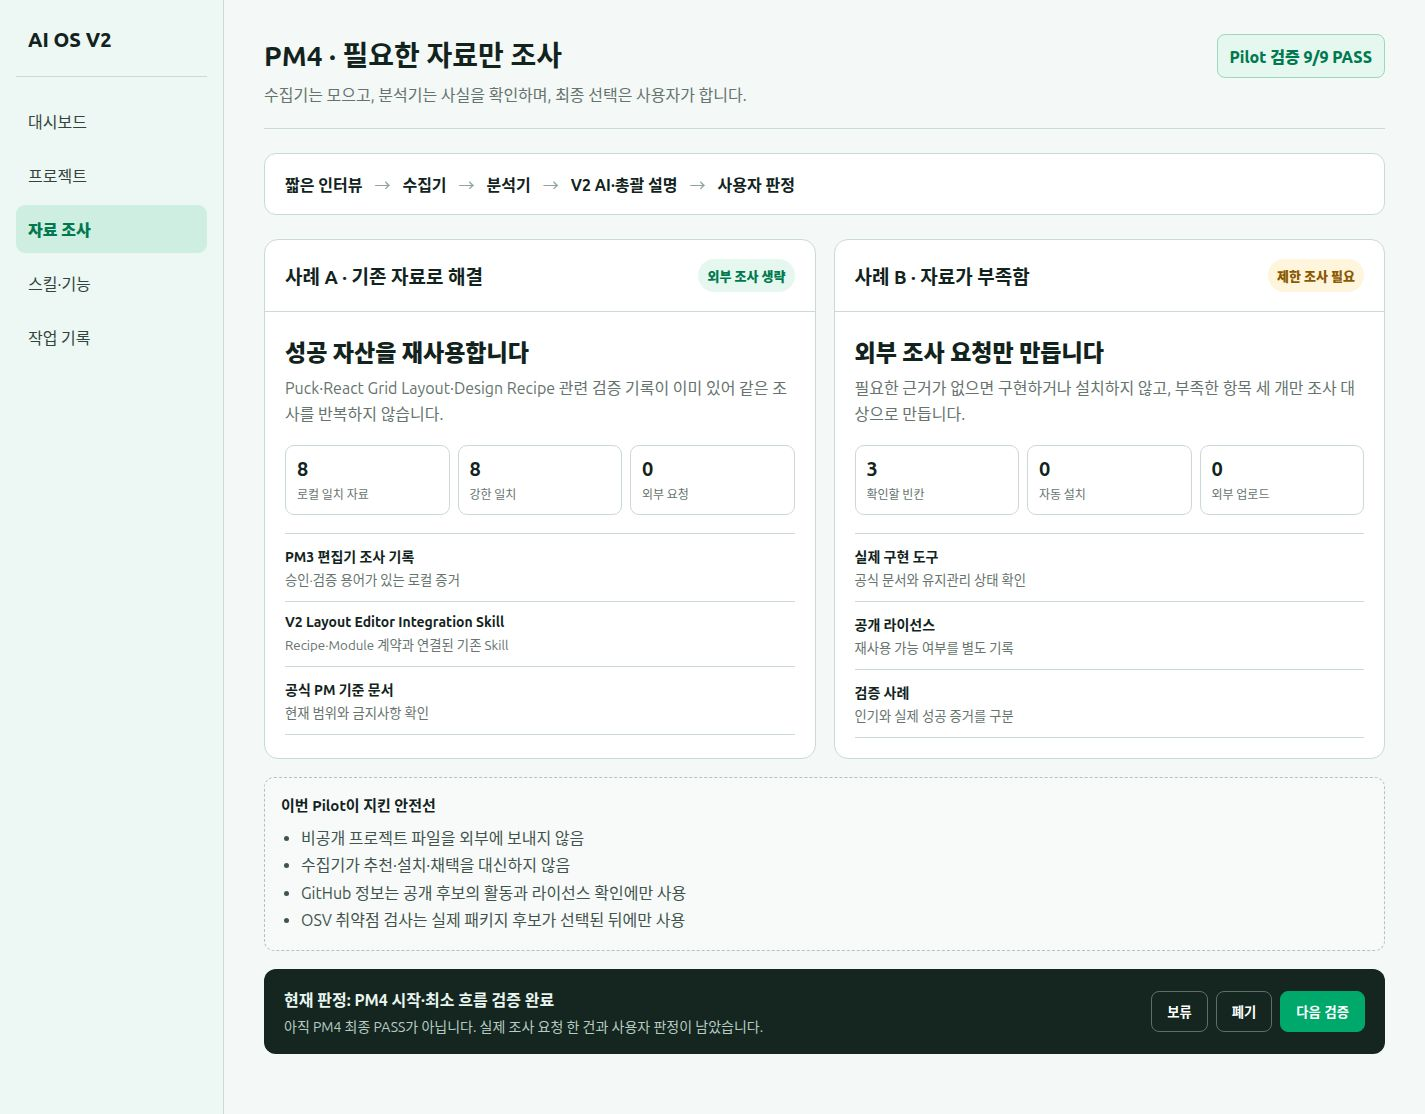
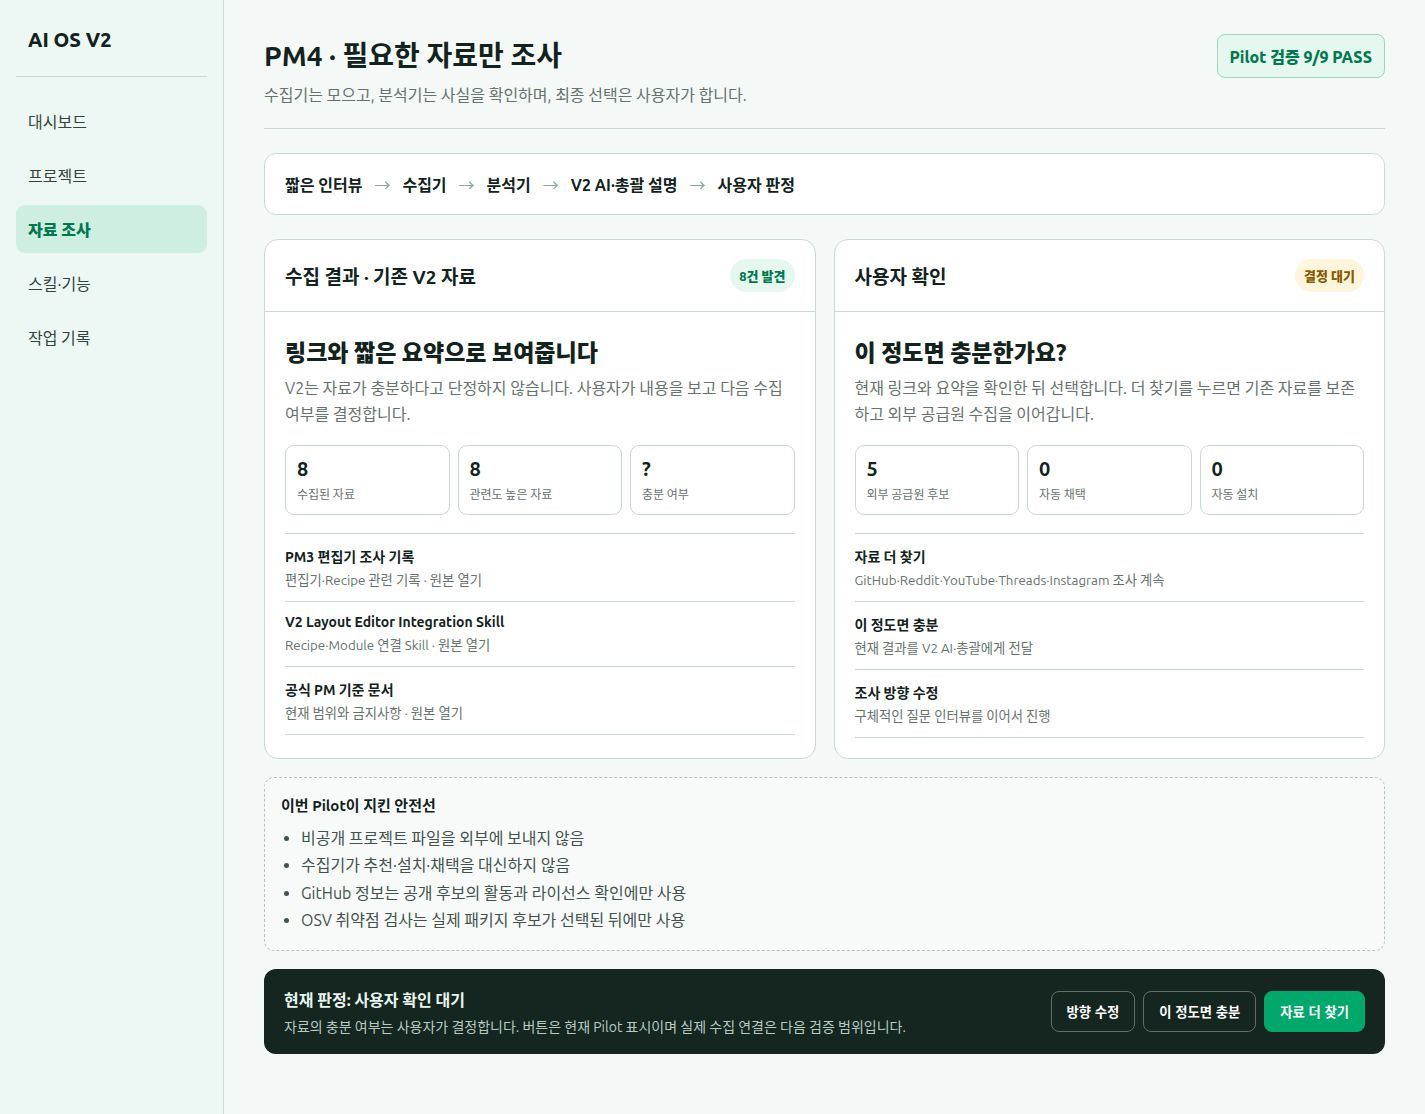
fix: make PM4 collection sufficiency user-decided

diff --git a/pm4-review.html b/pm4-review.html
@@ -15,11 +15,11 @@
     <section class="header"><div><h1>PM4 · 필요한 자료만 조사</h1><p>수집기는 모으고, 분석기는 사실을 확인하며, 최종 선택은 사용자가 합니다.</p></div><div class="status">Pilot 검증 9/9 PASS</div></section>
     <section class="flow" aria-label="조사 흐름"><span class="step">짧은 인터뷰</span><span class="arrow">→</span><span class="step">수집기</span><span class="arrow">→</span><span class="step">분석기</span><span class="arrow">→</span><span class="step">V2 AI·총괄 설명</span><span class="arrow">→</span><span class="step">사용자 판정</span></section>
     <section class="grid">
-      <article class="case"><header><h2>사례 A · 기존 자료로 해결</h2><span class="badge good">외부 조사 생략</span></header><div class="body"><div class="decision">성공 자산을 재사용합니다</div><p class="desc">Puck·React Grid Layout·Design Recipe 관련 검증 기록이 이미 있어 같은 조사를 반복하지 않습니다.</p><div class="metric"><div><b>8</b><span>로컬 일치 자료</span></div><div><b>8</b><span>강한 일치</span></div><div><b>0</b><span>외부 요청</span></div></div><div class="list"><div class="row"><b>PM3 편집기 조사 기록</b><small>승인·검증 용어가 있는 로컬 증거</small></div><div class="row"><b>V2 Layout Editor Integration Skill</b><small>Recipe·Module 계약과 연결된 기존 Skill</small></div><div class="row"><b>공식 PM 기준 문서</b><small>현재 범위와 금지사항 확인</small></div></div></div></article>
-      <article class="case"><header><h2>사례 B · 자료가 부족함</h2><span class="badge warn">제한 조사 필요</span></header><div class="body"><div class="decision">외부 조사 요청만 만듭니다</div><p class="desc">필요한 근거가 없으면 구현하거나 설치하지 않고, 부족한 항목 세 개만 조사 대상으로 만듭니다.</p><div class="metric"><div><b>3</b><span>확인할 빈칸</span></div><div><b>0</b><span>자동 설치</span></div><div><b>0</b><span>외부 업로드</span></div></div><div class="list"><div class="row"><b>실제 구현 도구</b><small>공식 문서와 유지관리 상태 확인</small></div><div class="row"><b>공개 라이선스</b><small>재사용 가능 여부를 별도 기록</small></div><div class="row"><b>검증 사례</b><small>인기와 실제 성공 증거를 구분</small></div></div></div></article>
+      <article class="case"><header><h2>수집 결과 · 기존 V2 자료</h2><span class="badge good">8건 발견</span></header><div class="body"><div class="decision">링크와 짧은 요약으로 보여줍니다</div><p class="desc">V2는 자료가 충분하다고 단정하지 않습니다. 사용자가 내용을 보고 다음 수집 여부를 결정합니다.</p><div class="metric"><div><b>8</b><span>수집된 자료</span></div><div><b>8</b><span>관련도 높은 자료</span></div><div><b>?</b><span>충분 여부</span></div></div><div class="list"><div class="row"><b>PM3 편집기 조사 기록</b><small>편집기·Recipe 관련 기록 · 원본 열기</small></div><div class="row"><b>V2 Layout Editor Integration Skill</b><small>Recipe·Module 연결 Skill · 원본 열기</small></div><div class="row"><b>공식 PM 기준 문서</b><small>현재 범위와 금지사항 · 원본 열기</small></div></div></div></article>
+      <article class="case"><header><h2>사용자 확인</h2><span class="badge warn">결정 대기</span></header><div class="body"><div class="decision">이 정도면 충분한가요?</div><p class="desc">현재 링크와 요약을 확인한 뒤 선택합니다. 더 찾기를 누르면 기존 자료를 보존하고 외부 공급원 수집을 이어갑니다.</p><div class="metric"><div><b>5</b><span>외부 공급원 후보</span></div><div><b>0</b><span>자동 채택</span></div><div><b>0</b><span>자동 설치</span></div></div><div class="list"><div class="row"><b>자료 더 찾기</b><small>GitHub·Reddit·YouTube·Threads·Instagram 조사 계속</small></div><div class="row"><b>이 정도면 충분</b><small>현재 결과를 V2 AI·총괄에게 전달</small></div><div class="row"><b>조사 방향 수정</b><small>구체적인 질문 인터뷰를 이어서 진행</small></div></div></div></article>
     </section>
     <section class="safe"><h3>이번 Pilot이 지킨 안전선</h3><ul><li>비공개 프로젝트 파일을 외부에 보내지 않음</li><li>수집기가 추천·설치·채택을 대신하지 않음</li><li>GitHub 정보는 공개 후보의 활동과 라이선스 확인에만 사용</li><li>OSV 취약점 검사는 실제 패키지 후보가 선택된 뒤에만 사용</li></ul></section>
-    <section class="footer"><div><b>현재 판정: PM4 시작·최소 흐름 검증 완료</b><span>아직 PM4 최종 PASS가 아닙니다. 실제 조사 요청 한 건과 사용자 판정이 남았습니다.</span></div><div class="actions"><button type="button">보류</button><button type="button">폐기</button><button class="primary" type="button">다음 검증</button></div></section>
+    <section class="footer"><div><b>현재 판정: 사용자 확인 대기</b><span>자료의 충분 여부는 사용자가 결정합니다. 버튼은 현재 Pilot 표시이며 실제 수집 연결은 다음 검증 범위입니다.</span></div><div class="actions"><button type="button">방향 수정</button><button type="button">이 정도면 충분</button><button class="primary" type="button">자료 더 찾기</button></div></section>
   </main>
 </div>
 </body>

diff --git a/plugins/v2-capability-lab/scripts/pm4_analyzer.py b/plugins/v2-capability-lab/scripts/pm4_analyzer.py
@@ -1,5 +1,5 @@
 #!/usr/bin/env python3
-"""Analyze collected PM4 facts without selecting or adopting a candidate."""
+"""Summarize collected PM4 facts and ask the user whether to continue."""
 
 from __future__ import annotations
 
@@ -19,33 +19,37 @@ def main() -> int:
         request = json.loads(Path(args.request_file).resolve().read_text(encoding="utf-8"))
         collection = json.loads(Path(args.collection_file).resolve().read_text(encoding="utf-8"))
         matches = collection.get("local_collection", {}).get("items", [])
-        minimum = int(request.get("minimum_local_matches", 3))
-        required_terms = set(request.get("required_terms") or [])
         strong = [item for item in matches if item.get("score", 0) >= 3]
-        covered = {term for item in strong for term in item.get("matched_terms", [])}
-        required_met = not required_terms or required_terms <= covered
-        sufficient = len(strong) >= minimum and required_met
-        gaps = list(request.get("research_gaps") or ([] if sufficient else ["구현 가능성", "유지관리", "라이선스"]))
-        original = request["original_request"]
-        queries = [] if sufficient else [f"{original} {gap}" for gap in gaps]
+        covered = sorted({term for item in matches for term in item.get("matched_terms", [])})
+        summaries = [
+            {
+                "source_id": item["source_id"],
+                "title": item["title"],
+                "link": item.get("url") or item.get("path"),
+                "short_summary": f"{', '.join(item.get('matched_terms', [])[:5])} 관련 자료",
+                "source_type": item["source_type"],
+            }
+            for item in matches
+        ]
         result = {
             "schema_version": "1.0",
             "request_id": request.get("request_id"),
-            "role": "fact_analysis_not_collection_not_adoption",
-            "coverage": "sufficient" if sufficient else ("partial" if matches else "insufficient"),
+            "role": "fact_summary_not_sufficiency_not_adoption",
             "facts": {
                 "collected_count": len(matches),
                 "strong_match_count": len(strong),
-                "minimum_required": minimum,
-                "required_terms": sorted(required_terms),
-                "required_terms_met": required_met,
+                "covered_terms": covered,
             },
-            "external_research_needed": not sufficient,
-            "research_gaps": gaps,
-            "external_queries": queries,
+            "results": summaries,
+            "sufficiency_judgment": None,
             "recommendation": None,
             "adoption_decision": None,
-            "next_owner": "collector" if not sufficient else "v2_ai_or_director",
+            "user_review": {
+                "question": "현재 수집된 자료와 짧은 요약을 확인했습니다. 이 정도면 충분한가요?",
+                "choices": ["자료 더 찾기", "이 정도면 충분", "조사 방향 수정"],
+                "decision": None,
+            },
+            "next_owner": "user",
         }
         Path(args.output).resolve().write_text(json.dumps(result, ensure_ascii=False, indent=2) + "\n", encoding="utf-8")
         print(json.dumps(result, ensure_ascii=False, indent=2))

diff --git a/wiki/CURRENT_STATE.md b/wiki/CURRENT_STATE.md
@@ -12,7 +12,7 @@ GitHub Spec Kit `v0.16.5`를 전역이 아닌 `/home/user/바탕화면/v2_spec_k
 
 현재 `M7 — PDF 도면 스탬프 MVP E2E`까지 구현·독립 검증·사용자 승인·Result Commit·Rollback/Restore가 완료됐습니다. M7 공식 Run은 `run-c0a968f3`, 제품 Result Commit은 `3b592c8`입니다. 이로써 `AI OS V2 Core MVP M1~M7`은 검증 완료·동결 상태입니다. Post-MVP 설계는 [[POST_MVP_PM0_PM6_BASELINE]]의 `PM0~PM6`으로 완료됐으며 완료 범위와 미구현 항목은 [[POST_MVP_DESIGN_COMPLETION_REPORT]]에 기록합니다. `PM0 — 운영환경 준비`는 기술 Preflight와 격리 재현을 통과했고, 사용자가 외부 Backup·표본 Restore만 후속으로 유예한 조건으로 PASS했습니다. `PM1 — 디자인 전략·탐색·채택`은 `single_visual_target_with_ui_ux_pro_guard` 방식과 PC 운영 UI를 PASS했습니다. `PM2 — 조립식 제작 보드`는 두 프로젝트 결과 Module, 단일 선택 Preview, 프로젝트별 기능 목록, Core 상태·Action·격리·복원을 사용자·Codex가 PASS했습니다. PM3은 사용자 조건부 통과로 범위를 잠갔고 기술 완료는 `not_proven`이며 PM6 재검증이 필수입니다. 다음 진행 가능 단계는 `PM4 — 조사·Design Intelligence`입니다. `run-ef4986d7`의 기존 Preview v1과 PM1의 실패 Pilot은 당시 거절 판정 그대로 보존하며 구현 입력으로 사용하지 않습니다.
 
-2026-08-21 PM4는 로컬 우선 Collector 최소 Pilot으로 시작했습니다. Interview → Collector(수집만) → Analyzer(사실·충분성 분석) 역할을 분리하고, 기존 성공 자산이 충분하면 외부 조사를 생략하며 부족하면 필요한 근거만 조사 요청으로 만드는 두 분기를 Network 없이 `9/9 PASS`했습니다. 이는 PM4 전체 PASS가 아닙니다. 실제 조사 요청, 출처 검증, 사용자 `채택·보류·폐기`, 채택 후 Capability Lab 연결은 아직 `not_yet_verified`입니다. GitHub 공개 Metadata 외 Reddit·YouTube·Threads·Instagram Adapter는 `planned_not_connected`입니다. 자세한 증거는 [[PM4_LOCAL_FIRST_COLLECTOR_PILOT_2026-08-21]]을 사용합니다.
+2026-08-21 PM4는 로컬 우선 Collector 최소 Pilot으로 시작했습니다. Interview → Collector(수집만) → Analyzer(사실·Link·짧은 요약) → 사용자 `자료 더 찾기·이 정도면 충분·조사 방향 수정`으로 역할을 분리했습니다. V2가 자료의 충분 여부를 단정하는 이전 Pilot 계약은 폐기했고, 판단은 사용자에게만 있습니다. 경계 회귀검사는 Network 없이 `9/9 PASS`했습니다. 이는 PM4 전체 PASS가 아닙니다. 실제 외부 조사 요청, 출처 접근, 사용자 결정, 채택 후 Capability Lab 연결은 아직 `not_yet_verified`입니다. GitHub 공개 Metadata 외 Reddit·YouTube·Threads·Instagram Adapter는 `planned_not_connected`입니다. Threads·Instagram은 사용자 Aside Browser 로그인 Session을 유효한 동안만 재사용하며 접근 우회는 금지합니다. 자세한 증거는 [[PM4_LOCAL_FIRST_COLLECTOR_PILOT_2026-08-21]]을 사용합니다.
 
 M2 공식 검증 Run은 `run-05dbfc27`입니다. `execution_mode: skills`, `workflow_run_id: null`인 동일 Run에서 Specify, 승인 전 Plan 차단, Spec 본문 수정과 Version 증가, 승인, Plan Artifact 생성과 새 프로세스 재조회를 확인했습니다.
 

diff --git a/wiki/SESSION_START_CONTRACT.md b/wiki/SESSION_START_CONTRACT.md
@@ -135,9 +135,10 @@ Skill의 최신 상세 기능과 상태는 `wiki/V2_SKILL_INVENTORY_AND_TRANSLAT
   `wiki/PM3_EDITOR_INTERVIEW_AND_RESEARCH_2026-08-21.md`입니다.
 - PM3 사용자 판정과 잠금 경계는
   `wiki/PM3_USER_PASS_WITH_PM6_REVALIDATION_2026-08-21.md`를 사용합니다.
-- PM4는 2026-08-21 Interview → Collector(수집만) → Analyzer(사실 분석)를 분리한
-  로컬 우선 최소 Pilot을 `9/9 PASS`했고 현재 `started`입니다. 기존 성공 자산이 충분하면 재사용하고 부족할 때만 제한 외부 조사
-  요청을 만듭니다. 실제 조사 요청·출처 검증·사용자 판정·Capability Lab 연결 전에는
+- PM4는 2026-08-21 Interview → Collector(수집만) → Analyzer(사실·Link·짧은 요약) →
+  사용자 확인을 분리한 로컬 우선 최소 Pilot을 `9/9 PASS`했고 현재 `started`입니다.
+  V2는 자료가 충분하다고 단정하지 않으며 사용자가 `자료 더 찾기·이 정도면 충분·조사 방향 수정`을 선택합니다.
+  실제 조사 요청·출처 검증·사용자 판정·Capability Lab 연결 전에는
   PM4 전체 PASS라고 말하지 않습니다. 새 세션은
   `wiki/PM4_LOCAL_FIRST_COLLECTOR_PILOT_2026-08-21.md`를 먼저 읽습니다.
 - 작은 수정은 `V2 Spec Adapter`의 `Spec Lite`를 먼저 사용합니다. 사용자가 개발 용어로 다시 설명하게 하지 않고 선택된 화면에서 대상을 찾은 뒤 `바꿀 것·유지할 것·확인 방법`만 보여줍니다. 새 프로젝트·새 Module·여러 화면·데이터·권한·배포가 포함되면 `Spec Full`로 승격해 저장소의 공식 Spec Kit Skill을 사용합니다. 명세 생성은 구현·PASS·Commit 승인이 아닙니다.
